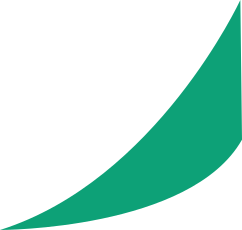
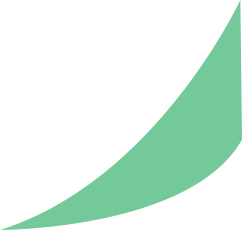
Improved TestResults by adding test-specific help

Changed region(s): [[0.0, 0.0, 1.0, 1.0]]

diff --git a/src/components/debuggingTutorial/test-results.jsx b/src/components/debuggingTutorial/test-results.jsx
@@ -9,6 +9,9 @@ import bubbleIndicatorGray from "./images/bubbleDecalGrey.png"
 import testSuccess from "./images/icon--testSuccess.png"
 import testFailed from "./images/icon--testFailed.png"
 import testRunning from "./images/icon--testRunning.png"
+import hintGeneration from "./hint-generation";
+import RequestHintButton2 from "./hint-generation";
+import projectData from "../../lib/default-project/project-data";
 
 // Hauptkomponente
 const TestResults = ({
@@ -25,22 +28,11 @@ const TestResults = ({
                          guiMessages,
                          setCurTestDetails,
                          handleTestStart,
+                         openHelpPage,
+                         project,
                      }) => {
     const { showLeftArrow, showRightArrow } = getPaginationInfo(testResults, step, testPageIndex);
-    const showNextStepButton = !hasCodeUpdated && testResults.passed;
 
-
-    /*
-            <div className={css.arrowButtonContainer}>
-                <div className={css.upArrowFill}/>
-                <img className={css.backButton}
-                     src={upButton}
-                     onClick={() => setCurPage("RESPONSE")}
-                     alt="Next page button"
-                     draggable={false}
-                />
-            </div>
-*/
 
     return (
         <div className={css.container}>
@@ -51,7 +43,7 @@ const TestResults = ({
                             <img className={css.bubbleIndicator} alt="Bubble-Decal" src={bubbleIndicatorGray}/>
                             {getTestText({ projectLoadingState, testResults, curTestDetails, hasCodeUpdated, guiMessages })}
                         </div>
-                        {renderResponse({hasCodeUpdated, projectLoadingState, curTestDetails, nextStep, showNextStepButton, testResults, handleTestStart, guiMessages})}
+                        {renderResponse({hasCodeUpdated, projectLoadingState, curTestDetails, nextStep, testResults, handleTestStart, guiMessages})}
                     </div>
                     <img src={curTestDetails === "" ? owl : owlDown} alt="Picture of Euli" className={css.owlImage} draggable={false}/>
                 </div>
@@ -64,7 +56,7 @@ const TestResults = ({
 
                 <div className={css.WhiteBoxBottom}>
                     <div className={css.testResultContainer}>
-                        {parseTestResults({testResults, testPageIndex, curTestDetails, projectLoadingState, step, setCurTestDetails, guiMessages})}
+                        {parseTestResults({testResults, testPageIndex, curTestDetails, projectLoadingState, step, setCurTestDetails, guiMessages, openHelpPage, project})}
                     </div>
                 </div>
 
@@ -93,7 +85,7 @@ const getTestText = ({ projectLoadingState, testResults, curTestDetails, hasCode
         return <span>{result === "pass" ? msg.test_passed : msg.test_failed}</span>;
     }
 
-    if (hasCodeUpdated) {
+    if (hasCodeUpdated && projectLoadingState !== "TEST_PAUSE") {
         return <span>{msg.code_changed}</span>;
     }
 
@@ -103,22 +95,23 @@ const getTestText = ({ projectLoadingState, testResults, curTestDetails, hasCode
 /**
  * The answer-bubbles, the user can select to answer eulis questions. (e.g. next step)
  */
-const renderResponse = ({hasCodeUpdated, projectLoadingState, curTestDetails, nextStep, showNextStepButton, testResults, handleTestStart, guiMessages}) => {
+const renderResponse = ({hasCodeUpdated, projectLoadingState, curTestDetails, nextStep, testResults, handleTestStart, guiMessages}) => {
     const msg = guiMessages.test_results;
 
-    if (hasCodeUpdated || (projectLoadingState === "TEST")) {
-        return (
-            <div className={`${css.helpBubble} ${(projectLoadingState !== "TEST") ? '' : css.selected}`} onClick={() => { if (projectLoadingState !== "TEST") handleTestStart()}} style={{marginBottom: "0px"}}>
-                <div className={css.selectionBubbleIndicator} />
-                {msg.test_again}
-            </div>
-        );
-    }
-    if (showNextStepButton) {
+    if (testResults?.passed) {
         return (
             <div className={css.nextBubble} onClick={nextStep}>
                 <div className={css.nextBubbleIndicator} />
                 {msg.next_step}
+            </div>
+        );
+    }
+
+    if ((hasCodeUpdated || (projectLoadingState === "TEST")) && projectLoadingState !== "TEST_PAUSE") {
+        return (
+            <div className={`${css.helpBubble} ${(projectLoadingState !== "TEST") ? '' : css.selected}`} onClick={() => { if (projectLoadingState !== "TEST") handleTestStart()}} style={{marginBottom: "0px"}}>
+                <div className={css.selectionBubbleIndicator} />
+                {msg.test_again}
             </div>
         );
     }
@@ -127,8 +120,8 @@ const renderResponse = ({hasCodeUpdated, projectLoadingState, curTestDetails, ne
 /**
  * Returns Euli's feedback-details containing all test results.
  */
-const parseTestResults = ({testResults, testPageIndex, curTestDetails, projectLoadingState, step, setCurTestDetails, guiMessages}) => {
-    if (testResults.passed) return null;
+const parseTestResults = ({testResults, testPageIndex, curTestDetails, projectLoadingState, step, setCurTestDetails, guiMessages, openHelpPage, project}) => {
+    //if (testResults.passed) return null;
 
     // 1) Sortieren (absteigend nach Test-ID)
     const sortedDetails = [...testResults.details]
@@ -191,13 +184,15 @@ const parseTestResults = ({testResults, testPageIndex, curTestDetails, projectLo
             projectLoadingState,
             curTestDetails,
             setCurTestDetails,
-            guiMessages
+            guiMessages,
+            openHelpPage,
+            project,
         );
     });
 };
 
 
-const createTestElement = (passed, e, testElementNumber, isCurrentStep, projectLoadingState, curTestDetails, setCurTestDetails, guiMessages) => {
+const createTestElement = (passed, e, testElementNumber, isCurrentStep, projectLoadingState, curTestDetails, setCurTestDetails, guiMessages, openHelpPage, project) => {
     const msg = guiMessages.test_results;
 
     const headerBgColor = (projectLoadingState === "TEST")
@@ -246,7 +241,7 @@ const createTestElement = (passed, e, testElementNumber, isCurrentStep, projectL
                             </div>
                         </div>
                         <div className={css.buttonWrapper} style={{paddingLeft:"5px"}}>
-                            <div className={css.testElementButtonHelp} onClick={() => setCurTestDetails("")}>
+                            <div className={css.testElementButtonHelp} onClick={() => {openHelpPage("step1_Costume1");}}>
                                 {msg.help_button}
                             </div>
                         </div>

diff --git a/src/lib/libraries/tutorial-messages-de.js b/src/lib/libraries/tutorial-messages-de.js
@@ -80,4 +80,17 @@ export default {
         test_again: "Ja, teste erneut!",
         next_step: "Zum nächsten Schritt",
     },
+
+    step: {
+        description: "Beschreibung",
+        error: "Fehler",
+        controls: "Steuerung",
+        next: "Weiter",
+        startTutorial: "Ich habe die Aufgabenstellung gelesen",
+        testButton: "Lösung Testen",
+        resultButton: "Testergebnisse",
+        euliButton: "Frage Euli",
+        todoButton: "Was soll ich tun?",
+        resetButton: "Schritt neu starten",
+    },
 };

diff --git a/src/components/debuggingTutorial/test-results.css b/src/components/debuggingTutorial/test-results.css
@@ -75,8 +75,8 @@
     display: inline-block;
     position: relative;
     border-radius: 15px;
-    background-color: #0fbd8cff;
-    border: solid 3px #0fbd8cff;
+    background-color: #89DDAFFF;
+    border: solid 3px #89DDAFFF;
     color: white;
     width: 100%;
     z-index: 100;
@@ -89,8 +89,8 @@
 }
 
 .nextBubble:hover {
-    background-color: #0da177ff;
-    border: solid 3px #0da177ff;
+    background-color: #73c99a;
+    border: solid 3px #73c99a;
 }
 
 .nextBubble:hover .nextBubbleIndicator {

diff --git a/src/lib/libraries/tutorial-messages-en.js b/src/lib/libraries/tutorial-messages-en.js
@@ -83,5 +83,18 @@ export default {
         controls: "",
         next_button: "",
         step_title: "",
-    }
+    },
+
+    step: {
+        description: "Description",
+        error: "Error",
+        controls: "Control",
+        next: "Next",
+        startTutorial: "I have read the task",
+        testButton: "Test solution",
+        resultButton: "Results",
+        euliButton: "Ask Euli",
+        todoButton: "What should I do?",
+        resetButton: "Restart step",
+    },
 };
